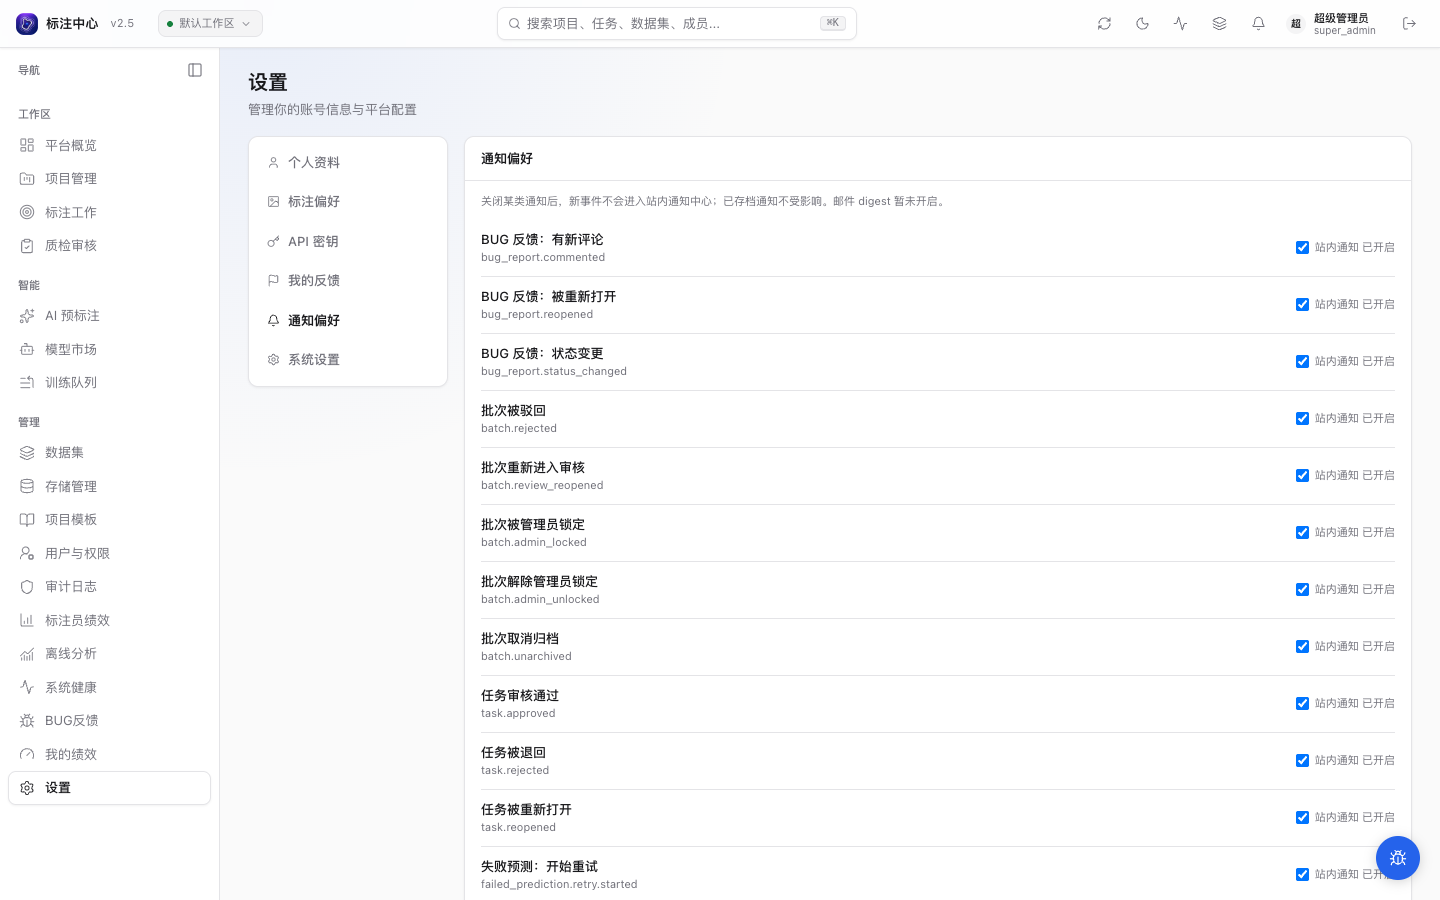
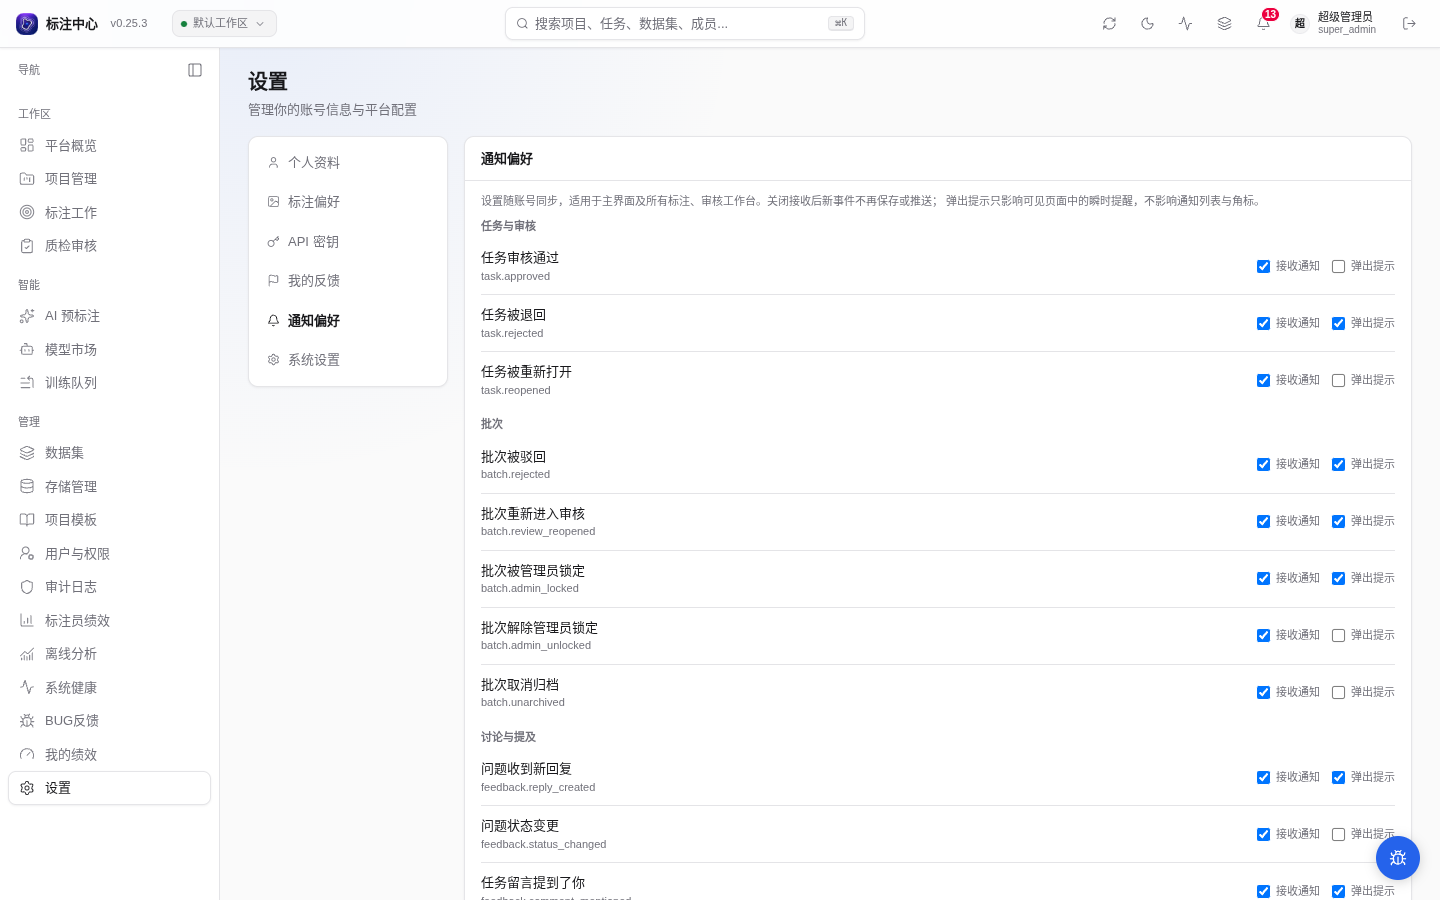
fix(notifications): 修复 E2E 覆盖与评审反馈
- E2E：工作台设置期望分类补「通知」，讨论通知改用稳定的入口 testid
- 守卫导航被视频 / Mask 离开检查取消时保留目标弹窗，给出可重试说明
- 偏好保存成功后先把已提交值写入缓存再失效重拉，避免开关短暂回跳
- 批量提醒窗口内切到后台时在 flush 时重新校验可见性并丢弃该批
- 未读角标改用语义前景色 text-primary-foreground，移除裸 text-white
- 文档：补充通知偏好 GET/PUT 合约、工作台设置七类用途与生成索引说明
- 生成索引跳过不承载字段的分组，消除空「通知」标题
- 重拍个人设置「通知偏好」截图并同步生成来源清单

diff --git a/apps/web/src/hooks/__tests__/useNotificationPreferences.test.tsx b/apps/web/src/hooks/__tests__/useNotificationPreferences.test.tsx
@@ -78,6 +78,32 @@ describe("useNotificationPreferences", () => {
     });
   });
 
+  it("保存成功后先把已提交值写入缓存再失效重拉", async () => {
+    const client = makeClient();
+    client.setQueryData(["notification-preferences", "u1"], {
+      items: [
+        { type: "task.rejected", in_app: true, email: false, toast: false },
+        { type: "task.approved", in_app: true, email: false, toast: false },
+      ],
+    });
+    // 重拉悬而未决：缓存仍应是本次提交值，而不是回跳到旧值。
+    api.getPreferences.mockReturnValue(new Promise(() => {}));
+    const { result } = renderHook(() => useUpdateNotificationPreference(), {
+      wrapper: wrapper(client),
+    });
+    await act(async () => {
+      await result.current.mutateAsync({ type: "task.rejected", toast: true });
+    });
+    const cached = client.getQueryData<{
+      items: { type: string; toast: boolean; in_app: boolean }[];
+    }>(["notification-preferences", "u1"]);
+    expect(cached?.items.find((item) => item.type === "task.rejected")).toMatchObject({
+      toast: true,
+      in_app: true,
+    });
+    expect(cached?.items.find((item) => item.type === "task.approved")?.toast).toBe(false);
+  });
+
   it("迟到的旧账号响应不能失效新账号的查询", async () => {
     let resolveSave!: (value: { ok: boolean }) => void;
     api.updatePreference.mockReturnValue(new Promise((r) => (resolveSave = r)));

diff --git a/apps/web/src/components/shell/NotificationsPopover.tsx b/apps/web/src/components/shell/NotificationsPopover.tsx
@@ -417,8 +417,15 @@ export function NotificationsPopover({
         url = buildUrl(batch.project_id, { batchId: batch.id, returnTo });
       }
       if (!current()) return;
+      // 守卫导航可能在视频 / Mask 离开检查中被取消并返回 false；确认成功前
+      // 保留目标弹窗，取消时给出可重试的说明而不是静默关闭来源。
+      const navigated = await go(url);
+      if (!current()) return;
+      if (navigated === false) {
+        setTarget({ item, error: "跳转已取消，可重新打开或查看当前任务。" });
+        return;
+      }
       setTarget(null);
-      go(url);
     } catch (error) {
       if (
         !current() ||
@@ -468,7 +475,7 @@ export function NotificationsPopover({
           <span
             data-testid="notifications-unread-badge"
             aria-hidden="true"
-            className="absolute right-[-3px] top-[-3px] inline-flex h-[15px] min-w-[15px] items-center justify-center rounded-full border border-card bg-status-danger px-[3px] text-center text-2xs font-semibold leading-[13px] text-white"
+            className="absolute right-[-3px] top-[-3px] inline-flex h-[15px] min-w-[15px] items-center justify-center rounded-full border border-card bg-status-danger px-[3px] text-center text-2xs font-semibold leading-[13px] text-primary-foreground"
           >
             {badgeText}
           </span>

diff --git a/apps/web/src/hooks/__tests__/useNotificationSocket.test.tsx b/apps/web/src/hooks/__tests__/useNotificationSocket.test.tsx
@@ -367,6 +367,35 @@ describe("useNotificationSocket", () => {
     expect(toastCallCount()).toBe(0);
   });
 
+  it("批量窗口内切到后台时丢弃已排队提醒", async () => {
+    const qc = new QueryClient({ defaultOptions: { queries: { retry: false } } });
+    seedPreferences(qc, "u1", [{ type: "task.rejected", toast: true }]);
+    mount(qc);
+
+    // 入队时标签页可见，两条事件合并进同一批。
+    act(() => {
+      MockWebSocket.instances[0].triggerMessage({
+        id: "n1",
+        type: "task.rejected",
+        payload: { task_display_id: "T-1" },
+      });
+      MockWebSocket.instances[0].triggerMessage({
+        id: "n2",
+        type: "task.rejected",
+        payload: { task_display_id: "T-2" },
+      });
+    });
+    // flush 前切到后台：重新检查可见性后丢弃整批，不产生回到前台才看到的 toast。
+    Object.defineProperty(document, "visibilityState", {
+      value: "hidden",
+      configurable: true,
+    });
+    await act(async () => {
+      await vi.advanceTimersByTimeAsync(1100);
+    });
+    expect(toastCallCount()).toBe(0);
+  });
+
   it("默认重要类型（接收+弹出开启）单条弹出短文案", async () => {
     const qc = new QueryClient({ defaultOptions: { queries: { retry: false } } });
     seedPreferences(qc, "u1", [{ type: "task.rejected", toast: true }]);

diff --git a/apps/web/src/hooks/useNotificationPreferences.ts b/apps/web/src/hooks/useNotificationPreferences.ts
@@ -45,9 +45,29 @@ export function useUpdateNotificationPreference() {
         owner,
       }));
     },
-    onSuccess: ({ owner }) => {
+    onSuccess: ({ owner }, variables) => {
       // 账号已切换：不要为新账号触碰旧 key（缓存已被 authQueryCache 清空）
       if (!owner || !isCurrentAuthOwner(owner)) return;
+      // 先把已提交值写入缓存再失效重拉：请求完成与重拉落地之间不暴露旧值，
+      // 避免刚保存成功的开关短暂回跳并被再次点击写回旧偏好。
+      qc.setQueryData<NotificationPreferencesResponse>(
+        notificationPreferencesKey(owner),
+        (previous) => {
+          if (!previous) return previous;
+          return {
+            ...previous,
+            items: previous.items.map((item) =>
+              item.type === variables.type
+                ? {
+                    ...item,
+                    ...(variables.in_app !== undefined ? { in_app: variables.in_app } : {}),
+                    ...(variables.toast !== undefined ? { toast: variables.toast } : {}),
+                  }
+                : item,
+            ),
+          };
+        },
+      );
       void qc.invalidateQueries({ queryKey: notificationPreferencesKey(owner) });
     },
   });

diff --git a/apps/web/src/components/shell/NotificationsPopover.navigation.test.tsx b/apps/web/src/components/shell/NotificationsPopover.navigation.test.tsx
@@ -413,6 +413,17 @@ describe("通知入口角标与工作台导航回调", () => {
     expect(screen.getByTestId("location")).toHaveTextContent("/dashboard");
   });
 
+  it("守卫导航被离开检查取消时保留目标与重试说明", async () => {
+    const navigateExternal = vi.fn(async () => false);
+    renderUI(navigateExternal);
+    await clickTaskNotification();
+    await waitFor(() => expect(navigateExternal).toHaveBeenCalledTimes(1));
+    // 取消后不静默关闭：保留弹窗并给出可重试说明。
+    expect(await screen.findByRole("alert")).toHaveTextContent("跳转已取消");
+    expect(screen.getByRole("dialog", { name: "打开通知目标" })).toBeVisible();
+    expect(screen.getByTestId("location")).toHaveTextContent("/dashboard");
+  });
+
   it("管理员打开 Bug 反馈通知时，/bugs 也交给导航回调", async () => {
     useAuthStore.getState().setAuth("t", { id: "a1", role: "super_admin" } as MeResponse);
     mocks.notifications = [

diff --git a/apps/web/e2e/screenshots/scenes/superadmin.ts b/apps/web/e2e/screenshots/scenes/superadmin.ts
@@ -231,8 +231,8 @@ export const SUPERADMIN_SCENES: ScreenshotScene[] = [
           }),
       );
       await page.waitForLoadState("networkidle");
-      // 顶栏铃铛按钮（title="通知"）→ 展开 NotificationsPopover
-      const bell = page.getByRole("button", { name: "通知", exact: true }).first();
+      // 顶栏铃铛按钮（data-testid）→ 展开 NotificationsPopover；读屏标签随未读数变化。
+      const bell = page.getByTestId("notifications-trigger").first();
       await bell.click();
       await page.getByRole("dialog").waitFor({ timeout: 3000 });
       await page.getByText("通过了任务").waitFor({ timeout: 3000 });

diff --git a/apps/web/src/hooks/useNotificationSocket.ts b/apps/web/src/hooks/useNotificationSocket.ts
@@ -131,6 +131,9 @@ export function useNotificationSocket() {
       const batch = pendingAlerts;
       pendingAlerts = [];
       if (batch.length === 0) return;
+      // 批量窗口内标签页可能已切到后台：此时丢弃这批提醒，避免回到前台
+      // 才看到不合时宜的 toast，与「隐藏标签页不弹」保持一致。
+      if (typeof document !== "undefined" && document.visibilityState !== "visible") return;
       if (batch.length === 1) {
         pushToast({
           kind: alertKind(batch[0].type),

diff --git a/docs-site/user-guide/workbench/settings.md b/docs-site/user-guide/workbench/settings.md
@@ -45,13 +45,13 @@ last_reviewed: 2026-09-12
 
 - **布局预设**：在「界面布局」选择可视化预设，或在「我的预设」保存、应用与删除自己的命名布局；「面板与高级布局」提供面板找回、点云专用布局及重置。顶部「布局」只保留标准、专注／恢复与更多布局设置。
 - **滑动预览**：按住滑动条时，设置窗口和遮罩透明，仅保留当前设置行；调整实时作用于工作台，松手、取消拖动或移出焦点后恢复窗口。背景仍禁止误操作。
-- **分类**：固定显示下表六类，不按当前任务过滤。个人设置页沿用同一分类，但只显示账号偏好，不包含本机实验和会话设置。
+- **分类**：固定显示下表七类，不按当前任务过滤。个人设置页的「标注偏好」沿用同一分类，但只显示账号偏好，不包含本机实验、会话设置与通知偏好；通知偏好在设置页侧栏单独成项。
 - **搜索**：搜索全部设置的名称、说明、选项、用途分类和适用类型；匹配子设置时一并显示其父开关。关闭窗口后清空搜索。
 - **关闭**：点击窗口外的遮罩、右上角关闭按钮、左侧「返回工作台」，或按 Esc。关闭前会提交正在编辑的文本；中文输入法组合期间 Esc 用于输入法，不关闭窗口。从窗口内部拖动滑块到外部松手也不会关闭。
 - **键盘与画布**：Tab 焦点保持在窗口中，分类可用方向键切换。窗口打开时，背景画布的快捷键、缩放、选择与绘制暂停响应；关闭后焦点回到打开入口。
 - **视频**：打开设置会暂停播放并停留在当前画面，关闭后保持暂停，可手动继续播放。
 
-### 六类用途
+### 七类用途
 
 | 分类       | 内容                                                      |
 | ---------- | --------------------------------------------------------- |
@@ -61,6 +61,7 @@ last_reviewed: 2026-09-12
 | 画布与视角 | 图片与视频画布、点云显示、相机上色、视角及邻帧点云        |
 | 播放与轨迹 | 视频播放速率、步进帧数、轨迹续写                          |
 | 性能与实验 | 性能档位、采样率、当前浏览器的实验特性                    |
+| 通知       | 按类型设置接收与弹出提示，与个人设置页「通知偏好」共用    |
 
 可以在图片任务中修改视频或点云偏好，保存后在对应任务中使用。图片与视频的「自动适应大小」仍是两个独立值，分别列在「图片画布」「视频画布」中；统一入口不会合并它们。项目锁定项继续以当前项目配置为准。
 

diff --git a/docs-site/api/guides/tasks-and-annotations.md b/docs-site/api/guides/tasks-and-annotations.md
@@ -106,6 +106,30 @@ GET /api/v1/feedbacks/:root_id/thread?limit=50
 
 载荷共同包含 `project_id`、`task_id`、`source`、`actor_name`，不复制正文。收件人按当前访问权限、账号状态和偏好过滤，并排除操作人、去重；无实际状态变化不发通知。收到载荷不代表继续拥有目标权限，客户端打开时仍需通过任务、根线程或原标注评论接口重新校验。通知已读不代表整个线程已读，也不新增任务留言或问题回复的提及、附件能力。
 
+#### 通知偏好
+
+`GET /api/v1/notification-preferences` 返回账号全部已知类型的偏好：
+
+```json
+{
+  "items": [{ "type": "task.rejected", "in_app": true, "email": false, "toast": true }]
+}
+```
+
+- `in_app`：是否接收该类型通知。关闭后该类型新事件不写入、不推送、不计数；无记录默认 `true`。
+- `toast`：可见页面是否弹出瞬时提醒，是**有效值**——显式存储的选择优先，未存储时按类型的默认重要程度计算。调用方直接读取即可，不需要自己推导默认。
+- `email`：保留字段，当前固定为 `false`，不消费。
+
+`PUT /api/v1/notification-preferences` 更新单个类型，请求体至少提供 `in_app`、`toast` 之一：
+
+```json
+{ "type": "task.rejected", "toast": false }
+```
+
+- 只合并请求中出现的键（数据库按 JSONB `channels || patch` 原子合并）：未提供的 `in_app`/`toast`/`email` 以及并发标签页写入的其它键都保留，不会被缺省值覆盖。
+- `type` 必须是已知类型，否则 `400`；`in_app` 与 `toast` 同时缺省返回 `400`；显式传 `null` 校验失败。
+- 写入成功返回 `{"ok": true}` 并发布 `notifications.sync reason=preferences`，其它会话据此刷新偏好；该事件不产生通知，也不改未读数。
+
 ## 视频问题反馈
 
 `POST /api/v1/feedbacks` 复用像素锚点合同保存视频问题，`anchor_position.frame` 为从 0 开始的源视频帧号，x/y 为画面内 0–1 相对坐标：
